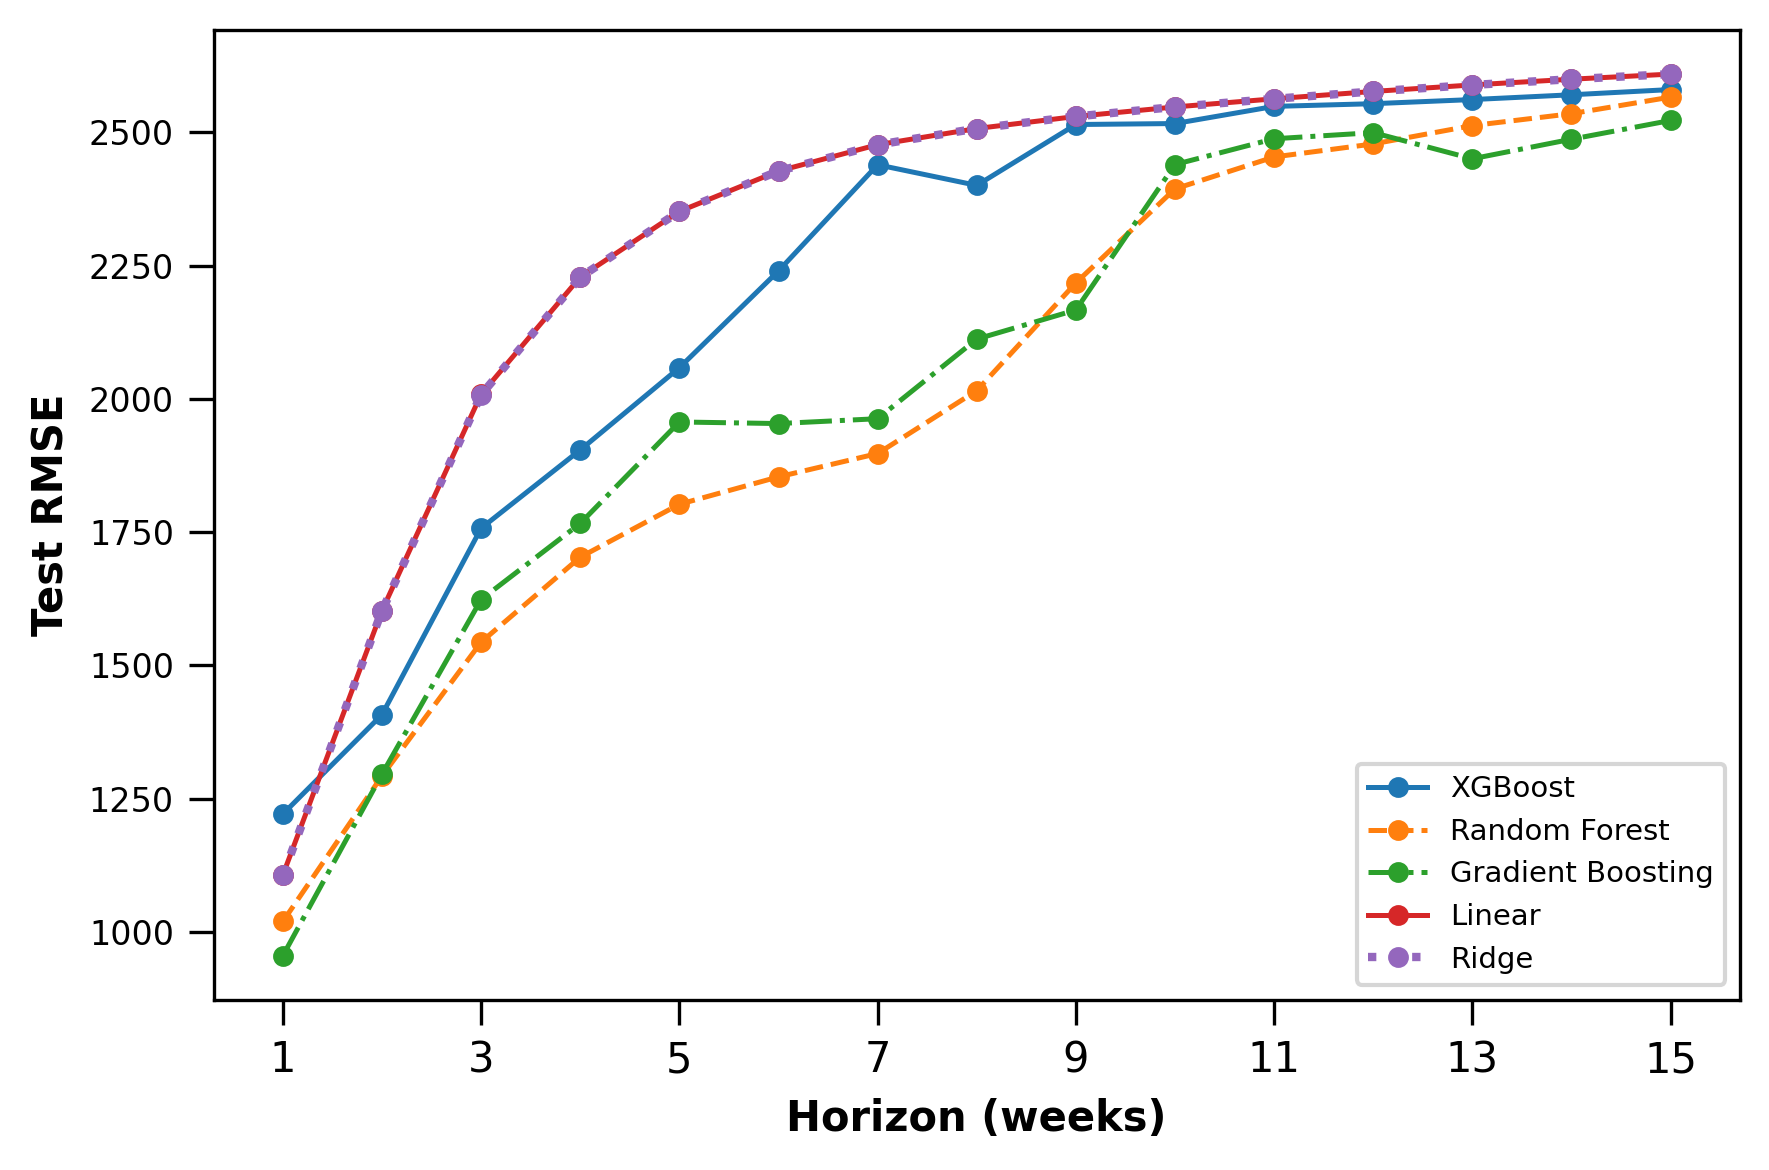
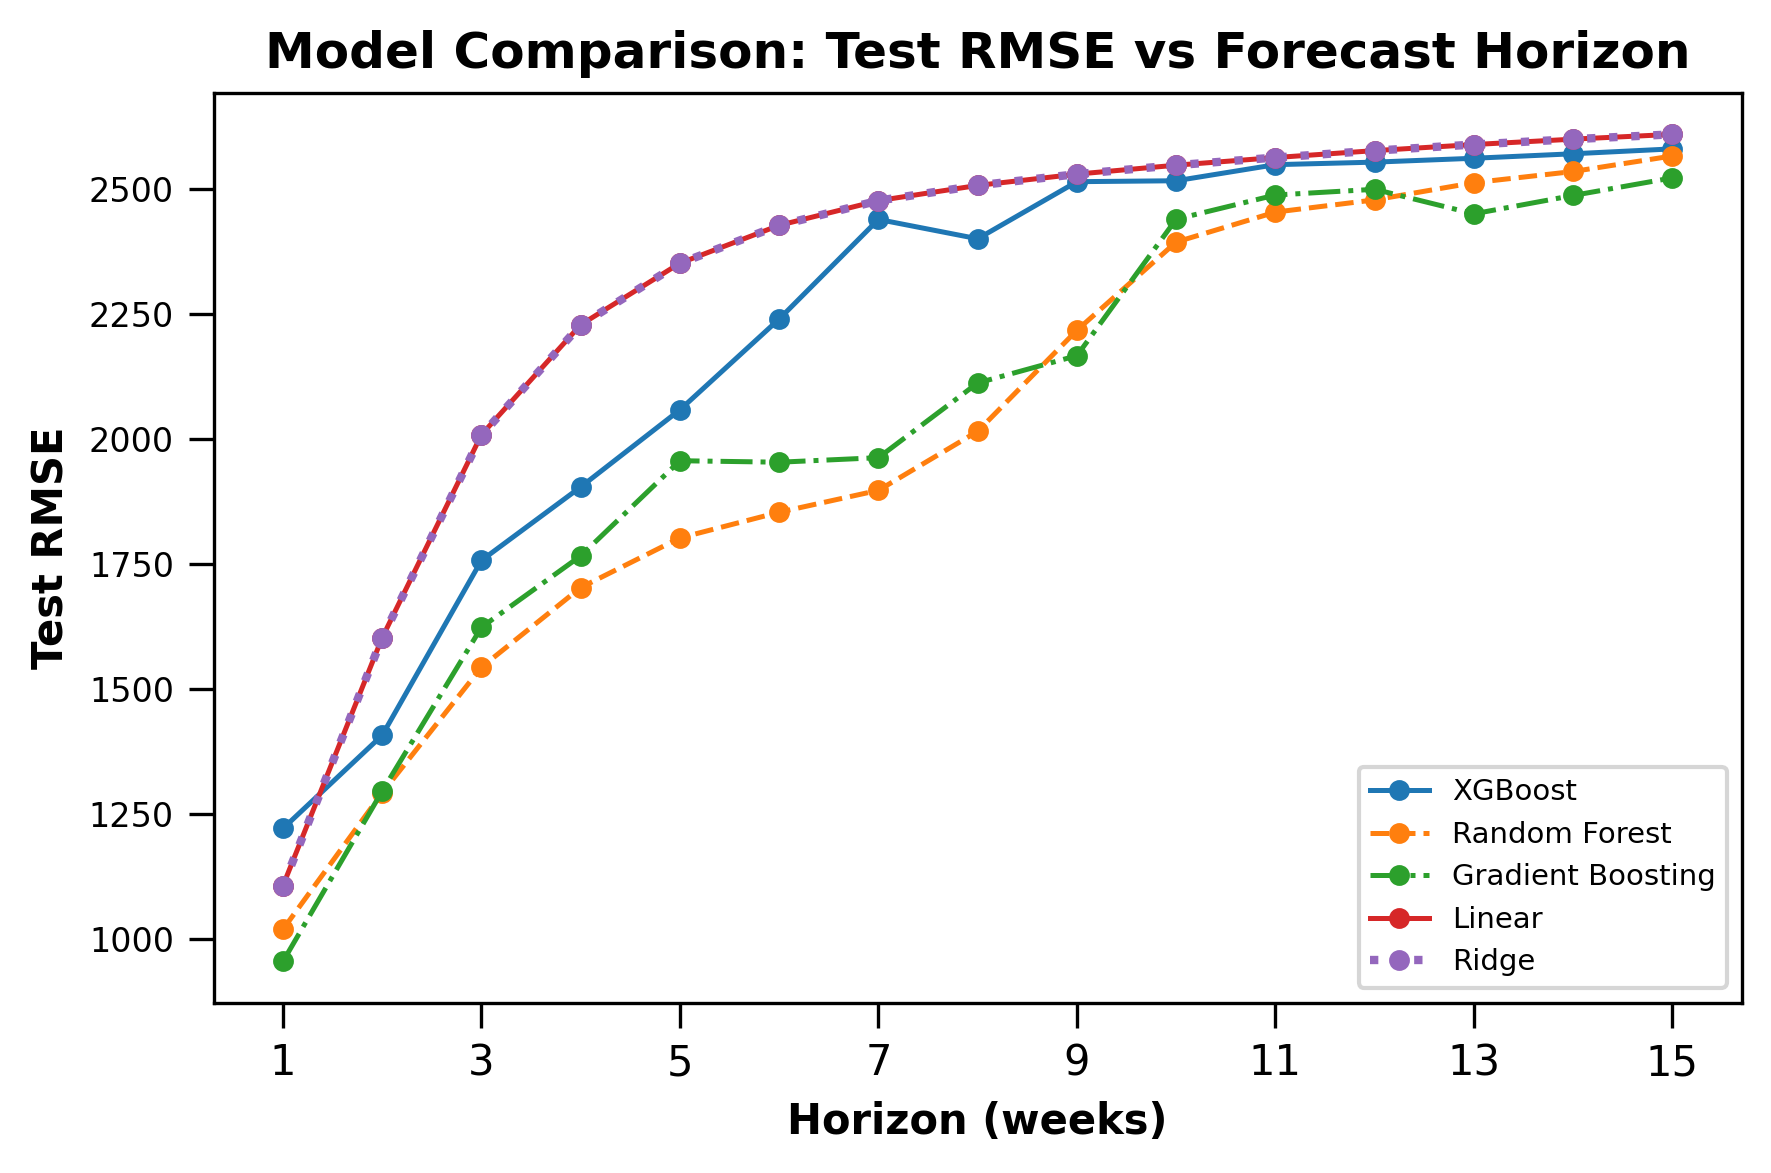
update readme

diff --git a/README.md b/README.md
@@ -1,0 +1,217 @@
+# XGBoost Dengue Prediction Model
+
+This repository contains Python scripts for forecasting dengue cases in Rio de Janeiro using temporal, socioeconomic, environmental, and spatial-lag features.
+
+The main workflow compares multiple regression models across forecast horizons from 1 to 15 weeks and evaluates performance using RMSE, MAE, and R².
+
+## Project Overview
+
+The model uses weekly municipality-level data from Rio de Janeiro, Brazil. For the target municipality, Rio de Janeiro, the scripts combine dengue case counts with temperature, humidity, rainfall, population, IDHM, temporal lag features, rolling averages, immunity-style decay features, and spatial lag features based on neighboring municipalities.
+
+The main script compares:
+
+- XGBoost
+- Random Forest
+- Gradient Boosting
+- Ridge Regression
+- Linear Regression
+
+## Project Structure
+
+```text
+XGBoost-Prediction-Model/
+├── data/
+│   ├── RJ.json
+│   ├── cases.csv
+│   ├── humidity.csv
+│   ├── idhm.csv
+│   ├── population.csv
+│   ├── rainfall.csv
+│   └── temperature.csv
+├── publication_ready_multi_model.py
+├── Optuna_model_optimization.py
+├── training_ratio.py
+├── multi_model_horizon_metrics.csv
+├── multi_model_horizon_rmse_plot.png
+├── xgboost_training_threshold_metrics.csv
+├── xgboost_rmse_mae_vs_training_threshold.png
+└── README.md
+```
+
+## Data Files
+
+The project expects a `data` folder in the repository root.
+
+Required files:
+
+```text
+data/cases.csv
+data/humidity.csv
+data/idhm.csv
+data/population.csv
+data/rainfall.csv
+data/temperature.csv
+data/RJ.json
+```
+
+Expected CSV columns:
+
+```text
+cases.csv: municipio,year,week,cases
+humidity.csv: municipio,year,week,humidity
+idhm.csv: municipio,year,week,idhm
+population.csv: municipio,year,week,population
+rainfall.csv: municipio,year,week,rainfall
+temperature.csv: municipio,year,week,temperature
+```
+
+The GeoJSON file `RJ.json` must contain Rio de Janeiro municipality boundaries and a municipality name property called `NOME`.
+
+## Feature Engineering
+
+The model builds several feature groups:
+
+- Temporal lags for dengue cases, rainfall, temperature, humidity, and spatial lag variables
+- Three-week rolling averages using only past values
+- Spatial lag features from neighboring municipalities
+- Population and IDHM socioeconomic indicators
+- An immunity-style feature using exponentially decayed past dengue cases
+- A year index to represent long-term temporal progression
+
+Spatial neighbors are built from municipality boundaries in `RJ.json`. Municipalities are treated as neighbors if their polygons touch or if they are within 5,000 meters in the projected coordinate system.
+
+## Train, Validation, and Test Split
+
+The main model script uses the following split:
+
+```text
+Training:   year <= 2018
+Validation: 2019-2021
+Testing:    2022-2025
+```
+
+Forecast horizons are evaluated from 1 to 15 weeks ahead.
+
+## Installation
+
+Clone the repository:
+
+```bash
+git clone https://github.com/YOUR-USERNAME/YOUR-REPOSITORY.git
+cd YOUR-REPOSITORY
+```
+
+Create and activate a virtual environment:
+
+```bash
+python3 -m venv .venv
+source .venv/bin/activate
+```
+
+On Windows PowerShell:
+
+```powershell
+python -m venv .venv
+.\.venv\Scripts\Activate.ps1
+```
+
+Install the required packages:
+
+```bash
+python -m pip install pandas numpy matplotlib scikit-learn xgboost optuna geopandas shapely
+```
+
+If `geopandas` fails to install, install the geospatial dependencies first. On macOS with Homebrew:
+
+```bash
+brew install gdal geos proj spatialindex
+python -m pip install geopandas
+```
+
+## Running the Main Model Comparison
+
+Run:
+
+```bash
+python publication_ready_multi_model.py
+```
+
+This script:
+
+1. Loads the weekly dengue, climate, socioeconomic, and GeoJSON data
+2. Builds temporal and spatial features
+3. Trains multiple models across forecast horizons from 1 to 15 weeks
+4. Calibrates predictions using linear regression on the validation split
+5. Saves model metrics and a publication-ready RMSE plot
+
+Outputs:
+
+```text
+multi_model_horizon_metrics.csv
+multi_model_horizon_rmse_plot.png
+```
+
+## Running Hyperparameter Optimization
+
+Run:
+
+```bash
+python Optuna_model_optimization.py
+```
+
+This script uses Optuna and time-series cross-validation to tune model hyperparameters.
+
+## Running Training Ratio Analysis
+
+Run:
+
+```bash
+python training_ratio.py
+```
+
+This script evaluates XGBoost performance under different training-year thresholds.
+
+Outputs:
+
+```text
+xgboost_training_threshold_metrics.csv
+xgboost_rmse_mae_vs_training_threshold.png
+```
+
+## Main Outputs
+
+`multi_model_horizon_metrics.csv` contains validation and test metrics for each model and forecast horizon.
+
+`multi_model_horizon_rmse_plot.png` shows test RMSE by forecast horizon for all compared models.
+
+`xgboost_training_threshold_metrics.csv` contains XGBoost performance across different training splits.
+
+`xgboost_rmse_mae_vs_training_threshold.png` shows RMSE and MAE as the training threshold changes.
+
+## Notes
+
+- The current target municipality is Rio de Janeiro.
+- The forecast target is dengue cases shifted ahead by the selected horizon.
+- XGBoost uses a log-transformed target during training in the main comparison script.
+- Model predictions are calibrated using a linear regression fit on the validation predictions.
+- Missing spatial lag values are filled using prior target-municipality values.
+
+## Requirements
+
+Main Python dependencies:
+
+```text
+pandas
+numpy
+matplotlib
+scikit-learn
+xgboost
+optuna
+geopandas
+shapely
+```
+
+## License and Data Sources
+
+This project uses dengue, climate, socioeconomic, and geographic data for Rio de Janeiro municipalities. If publishing the repository publicly, include citations or links for the original data sources used to generate the CSV and GeoJSON files.
+
